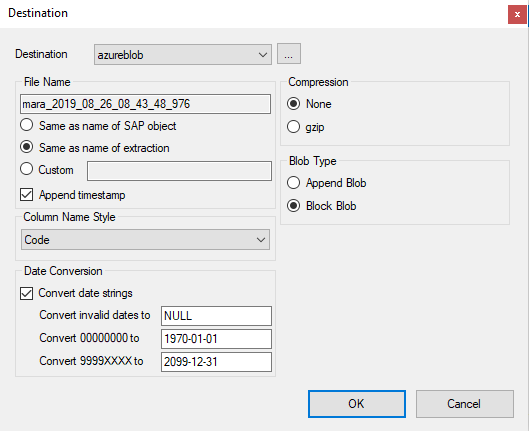
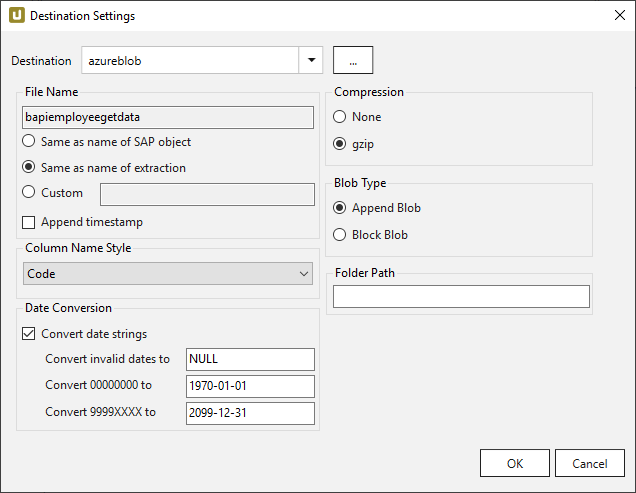
XU Azure Blob update

diff --git a/content/_en/xtract-universal/xu-destinations/azure-blob-storage/blob-settings.md b/content/_en/xtract-universal/xu-destinations/azure-blob-storage/blob-settings.md
@@ -8,7 +8,6 @@ parent: azure-blob-storage
 permalink: /:collection/:path
 weight: 3
 lang: en_GB
-old_url: /Xtract-Universal-EN/default.aspx?pageid=blob-settings
 ---
 When you click the **Destination** button, you can set extraction-specific settings for the destination.
 
@@ -36,7 +35,10 @@ Consists of blocks, analogous to Blob Type, and are optimized for attachment ope
 **Block Blob**<br>
 Text and binary data consisting of data blocks that can be managed individually.
 
+#### Folder Path
 
+Enter a folder name without slashes here if you want the extraction to be extracted to a folder within an Azure BLOB Storage container.
+Subfolders are also supported and can be entered as follows: Folder/Subfolder1/Subfolder2/…
 
 After the successful extraction you will find the data in the Azure BLOB Storage.
 

diff --git a/content/_de/xtract-universal/xu-zielumgebungen/azure_blob_storage/blob-einstellungen.md b/content/_de/xtract-universal/xu-zielumgebungen/azure_blob_storage/blob-einstellungen.md
@@ -37,9 +37,11 @@ Bestehend aus Blöcken, analog zu Blob Type, und sind optimiert für Anhängevor
 **Block Blob**<br>
 Text- und Binärdaten bestehend aus Datenblöcken, die einzeln verwaltet werden können.
 
+#### Folder Path
 
+Geben Sie hier einen Ordnernamen ohne Schrägstriche ein, wenn die Extraktion in einen Ordner innerhalb eines Azure BLOB Storage Containers extrahiert werden soll.
+Unterordner werden ebenfalls unterstützt und können wie folgt eingegeben werden: Ordner/Unterordner1/Unterordner2/…
 
 Nach der erfolgreichen Extraktion finden Sie die Daten im Azure BLOB Storage.
 
 ![azure-blob-file-gz](/img/content/azure-blob-file-gz.png){:class="img-responsive"}
-
